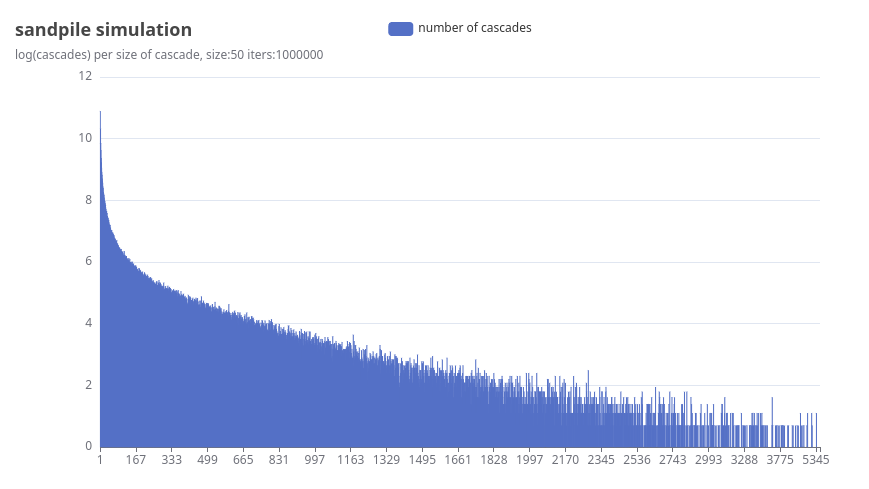
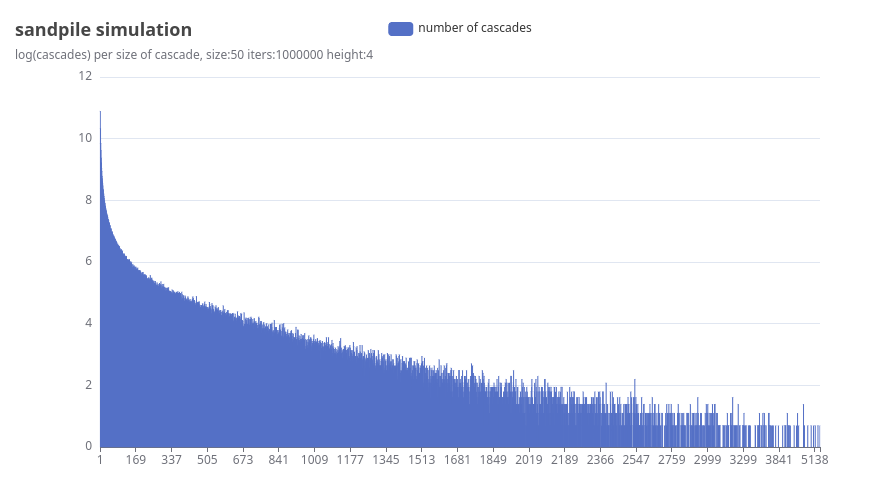
readme and add height to chart

diff --git a/sand.go b/sand.go
@@ -5,7 +5,6 @@ import (
 	"github.com/go-echarts/go-echarts/v2/charts"
 	chartopts "github.com/go-echarts/go-echarts/v2/opts"
 	"github.com/jessevdk/go-flags"
-	// "golang.org/x/exp/maps"
 	"math"
 	"math/rand"
 	"os"
@@ -135,8 +134,10 @@ func MakeChart(totals map[int]float64, opts Opts) {
 
 	// set some global options like Title/Legend/ToolTip or anything else
 	bar.SetGlobalOptions(charts.WithTitleOpts(chartopts.Title{
-		Title:    "sandpile simulation",
-		Subtitle: fmt.Sprintf("log(cascades) per size of cascade, size:%d iters:%d", opts.Size, opts.Iters),
+		Title: "sandpile simulation",
+		Subtitle: fmt.Sprintf(
+			"log(cascades) per size of cascade, size:%d iters:%d height:%d",
+			opts.Size, opts.Iters, opts.Height),
 	}))
 
 	// TODO: this is stupid. should be a sorted map.

diff --git a/README.md b/README.md
@@ -1,0 +1,17 @@
+# sand
+
+Go implementation of the original sandpile experiment showing Self-Organized Criticality (SOC).
+
+To run the simulation with a grid of 50x50 and 1M iterations:
+
+```
+go run sand.go --size 50 --iters 1_000_000 --chart
+```
+
+![chart](size-50_iters-1M.png)
+
+see all options:
+
+```
+go run sand.go --help
+```
